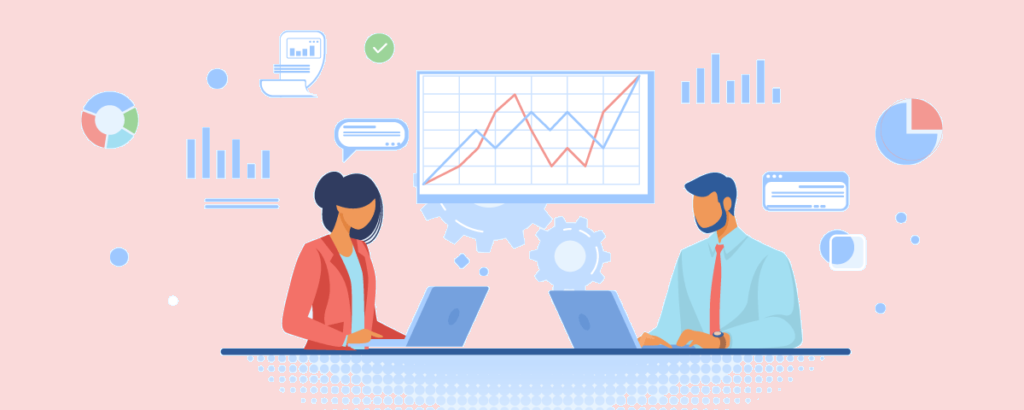
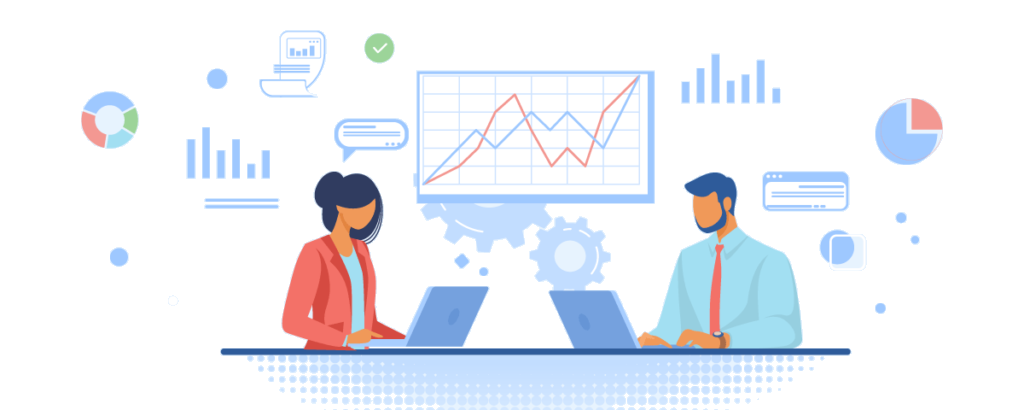
add hero section

diff --git a/assets/css/style.css b/assets/css/style.css
@@ -11,6 +11,8 @@
 body {
   font-family: "Open Sans", sans-serif;
   color: #444444;
+  width:70%;
+  margin:auto;
 }
 
 a {
@@ -221,7 +223,6 @@ h6 {
 
 .navbar-mobile ul {
   display: block;
-  position:;
   top: 55px;
   right: 15px;
   bottom: 15px;
@@ -250,6 +251,100 @@ h6 {
 .navbar-mobile .getintouch:focus {
   margin: 15px;
   color: #402D85;
+}
+
+/*--------------------------------------------------------------
+# Hero Section
+--------------------------------------------------------------*/
+#hero {
+  width: 100%;
+  height: 55vh;
+  background: #fff;
+}
+
+#hero .container {
+  padding-top: 72px;
+}
+
+#hero h1 {
+  margin: 0 0 10px 0;
+  font-size: 48px;
+  font-weight: 700;
+  line-height: 56px;
+  color: #751D41;
+}
+
+#hero h2 {
+  color: rgba(141, 36, 79, 0.6);
+  margin-bottom: 50px;
+  font-size: 24px;
+}
+
+#hero .animated {
+  animation: up-down 2s ease-in-out infinite alternate-reverse both;
+}
+
+@media (max-width: 991px) {
+  #hero {
+    height: 100vh;
+    text-align: center;
+  }
+
+  #hero .animated {
+    -webkit-animation: none;
+    animation: none;
+  }
+
+  #hero .hero-img {
+    text-align: center;
+  }
+
+  #hero .hero-img img {
+    width: 50%;
+  }
+}
+
+@media (max-width: 768px) {
+  #hero h1 {
+    font-size: 28px;
+    line-height: 36px;
+  }
+
+  #hero h2 {
+    font-size: 18px;
+    line-height: 24px;
+    margin-bottom: 30px;
+  }
+
+  #hero .hero-img img {
+    width: 70%;
+  }
+}
+
+@media (max-width: 575px) {
+  #hero .hero-img img {
+    width: 80%;
+  }
+}
+
+@-webkit-keyframes up-down {
+  0% {
+    transform: translateY(10px);
+  }
+
+  100% {
+    transform: translateY(-10px);
+  }
+}
+
+@keyframes up-down {
+  0% {
+    transform: translateY(10px);
+  }
+
+  100% {
+    transform: translateY(-10px);
+  }
 }
 
 /*--------------------------------------------------------------

diff --git a/index.html b/index.html
@@ -34,7 +34,7 @@
   <header id="header" class="fixed-top ">
     <div class="container d-flex align-items-center">
 
-      <a href="index.html" class="logo me-auto"><img src="assets/img/navLogo.png" alt="" class="img-fluid"></a>
+      <a href="#hero" class="logo me-auto"><img src="assets/img/navLogo.png" alt="" class="img-fluid"></a>
 
       <nav id="navbar" class="navbar">
         <ul>
@@ -51,6 +51,22 @@
 
     </div>
   </header><!-- End Header -->
+
+  <section id="hero" class="d-flex align-items-center">
+
+    <div class="container">
+      <div class="row">
+        <div class="col-lg-6 d-flex flex-column justify-content-center pt-4 pt-lg-0 order-2 order-lg-1" data-aos="fade-up" data-aos-delay="200">
+          <h1>Data Analysis</h1>
+          <h2>Experience the difference with us.</h2>
+        </div>
+        <div class="col-lg-6 order-1 order-lg-2 hero-img" data-aos="zoom-in" data-aos-delay="200">
+          <img src="assets/img/cover.png" class="img-fluid animated" alt="">
+        </div>
+      </div>
+    </div>
+
+  </section><!-- End Hero -->
 
   <!-- ======= Footer ======= -->
   <footer id="footer" class="fixed-bottom">
